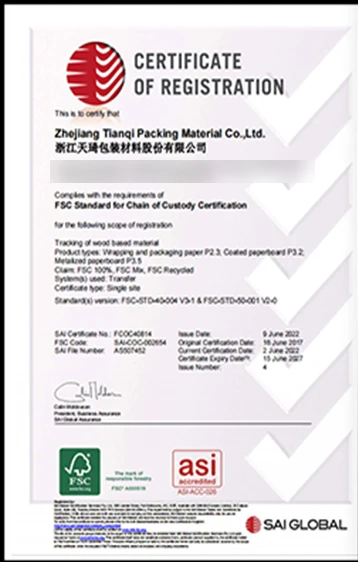
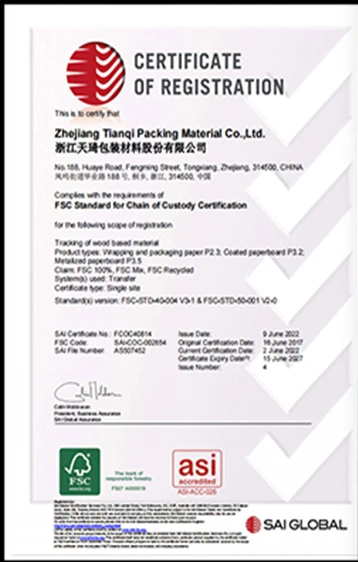
Certificates: show full unedited scans on EN and ZH
Claude-Session: https://claude.ai/code/session_01Shwr6dL7Wc4F3rATaUFuRT

Changed region(s): [[0.1536, 0.2722, 0.8603, 0.3327]]

diff --git a/public/index.html b/public/index.html
@@ -103,7 +103,7 @@
       <h2>Made in our own plant</h2>
       <p>Zhejiang Tianqi Packaging Materials Co., Ltd. makes gold and silver paperboard and other packaging papers in Zhejiang, China. Coating, vacuum metallising, laser embossing, cast coating, laminating and slitting are all done in house.</p>
       <div class="facts"><div><strong>40,000 t</strong><span>annual capacity</span></div><div><strong>100+</strong><span>coating, metallising and embossing machines</span></div><div><strong>27</strong><span>granted patents</span></div></div>
-      <h3 class="mini-head">Certifications</h3><ul class="certs"><li class="cert"><div><h4>FSC certification</h4><p>FSC Chain of Custody, certified by SAI Global. Covers packaging paper, coated paperboard and metallized paperboard (FSC 100%, FSC Mix, FSC Recycled). Valid to 15 June 2027.</p></div></li><li class="cert"><div><h4>ISO 9001:2015 certification</h4><p>Quality management system certified by WIT Assessment.</p></div></li></ul>
+      <h3 class="mini-head">Certifications</h3><ul class="certs"><li class="cert"><a class="cert-img" href="./assets/img/cert-fsc.webp"><img src="./assets/img/cert-fsc.webp" alt="FSC certification" loading="lazy"></a><div><h4>FSC certification</h4><p>FSC Chain of Custody, certified by SAI Global. Covers packaging paper, coated paperboard and metallized paperboard (FSC 100%, FSC Mix, FSC Recycled). Valid to 15 June 2027.</p></div></li><li class="cert"><a class="cert-img" href="./assets/img/cert-iso9001.webp"><img src="./assets/img/cert-iso9001.webp" alt="ISO 9001:2015 certification" loading="lazy"></a><div><h4>ISO 9001:2015 certification</h4><p>Quality management system certified by WIT Assessment.</p></div></li></ul>
       <div class="btns"><a class="btn" href="./about/">About the factory</a></div>
     </div>
   </div>

diff --git a/public/about/index.html b/public/about/index.html
@@ -87,7 +87,7 @@
       <h2>What we make</h2>
       <p>Gold and silver paperboard, holographic paperboard and film, aluminium foil laminated paper, and now patterned holographic paperboard and film.</p>
       <div class="btns"><a class="btn" href="../products/">See products</a></div>
-      <h3 class="mini-head">Certifications</h3><ul class="certs"><li class="cert"><div><h4>FSC certification</h4><p>FSC Chain of Custody, certified by SAI Global. Covers packaging paper, coated paperboard and metallized paperboard (FSC 100%, FSC Mix, FSC Recycled). Valid to 15 June 2027.</p></div></li><li class="cert"><div><h4>ISO 9001:2015 certification</h4><p>Quality management system certified by WIT Assessment.</p></div></li></ul>
+      <h3 class="mini-head">Certifications</h3><ul class="certs"><li class="cert"><a class="cert-img" href="../assets/img/cert-fsc.webp"><img src="../assets/img/cert-fsc.webp" alt="FSC certification" loading="lazy"></a><div><h4>FSC certification</h4><p>FSC Chain of Custody, certified by SAI Global. Covers packaging paper, coated paperboard and metallized paperboard (FSC 100%, FSC Mix, FSC Recycled). Valid to 15 June 2027.</p></div></li><li class="cert"><a class="cert-img" href="../assets/img/cert-iso9001.webp"><img src="../assets/img/cert-iso9001.webp" alt="ISO 9001:2015 certification" loading="lazy"></a><div><h4>ISO 9001:2015 certification</h4><p>Quality management system certified by WIT Assessment.</p></div></li></ul>
     </div>
     <figure class="framed-fig"><img src="../assets/img/factory/f-4431-en.webp" alt="Paper rolls in the Tianqi warehouse" loading="lazy"><figcaption>Paper stock in our warehouse (photo)</figcaption></figure>
   </div>

diff --git a/build.py b/build.py
@@ -367,9 +367,9 @@ def certs_html(lang):
     head = "Certifications" if lang == "en" else "资质认证"
     cells = []
     for c in cs:
-        # certificate scans carry Chinese text, so only the ZH pages show them
+        # full certificate scans on both languages (Hailey 2026-10-16: show unedited, like the factory gate photo)
         img = (f'<a class="cert-img" href="/assets/img/{c["img"]}.webp"><img src="/assets/img/{c["img"]}.webp" alt="{e(L(c, lang))}" loading="lazy"></a>'
-               if c.get("img") and lang == "zh" else "")
+               if c.get("img") else "")
         detail = f'<p>{e(L(c["detail"], lang))}</p>' if c.get("detail") else ""
         cells.append(f'<li class="cert">{img}<div><h4>{e(L(c, lang))}</h4>{detail}</div></li>')
     return f'<h3 class="mini-head">{head}</h3><ul class="certs">' + "".join(cells) + "</ul>"
